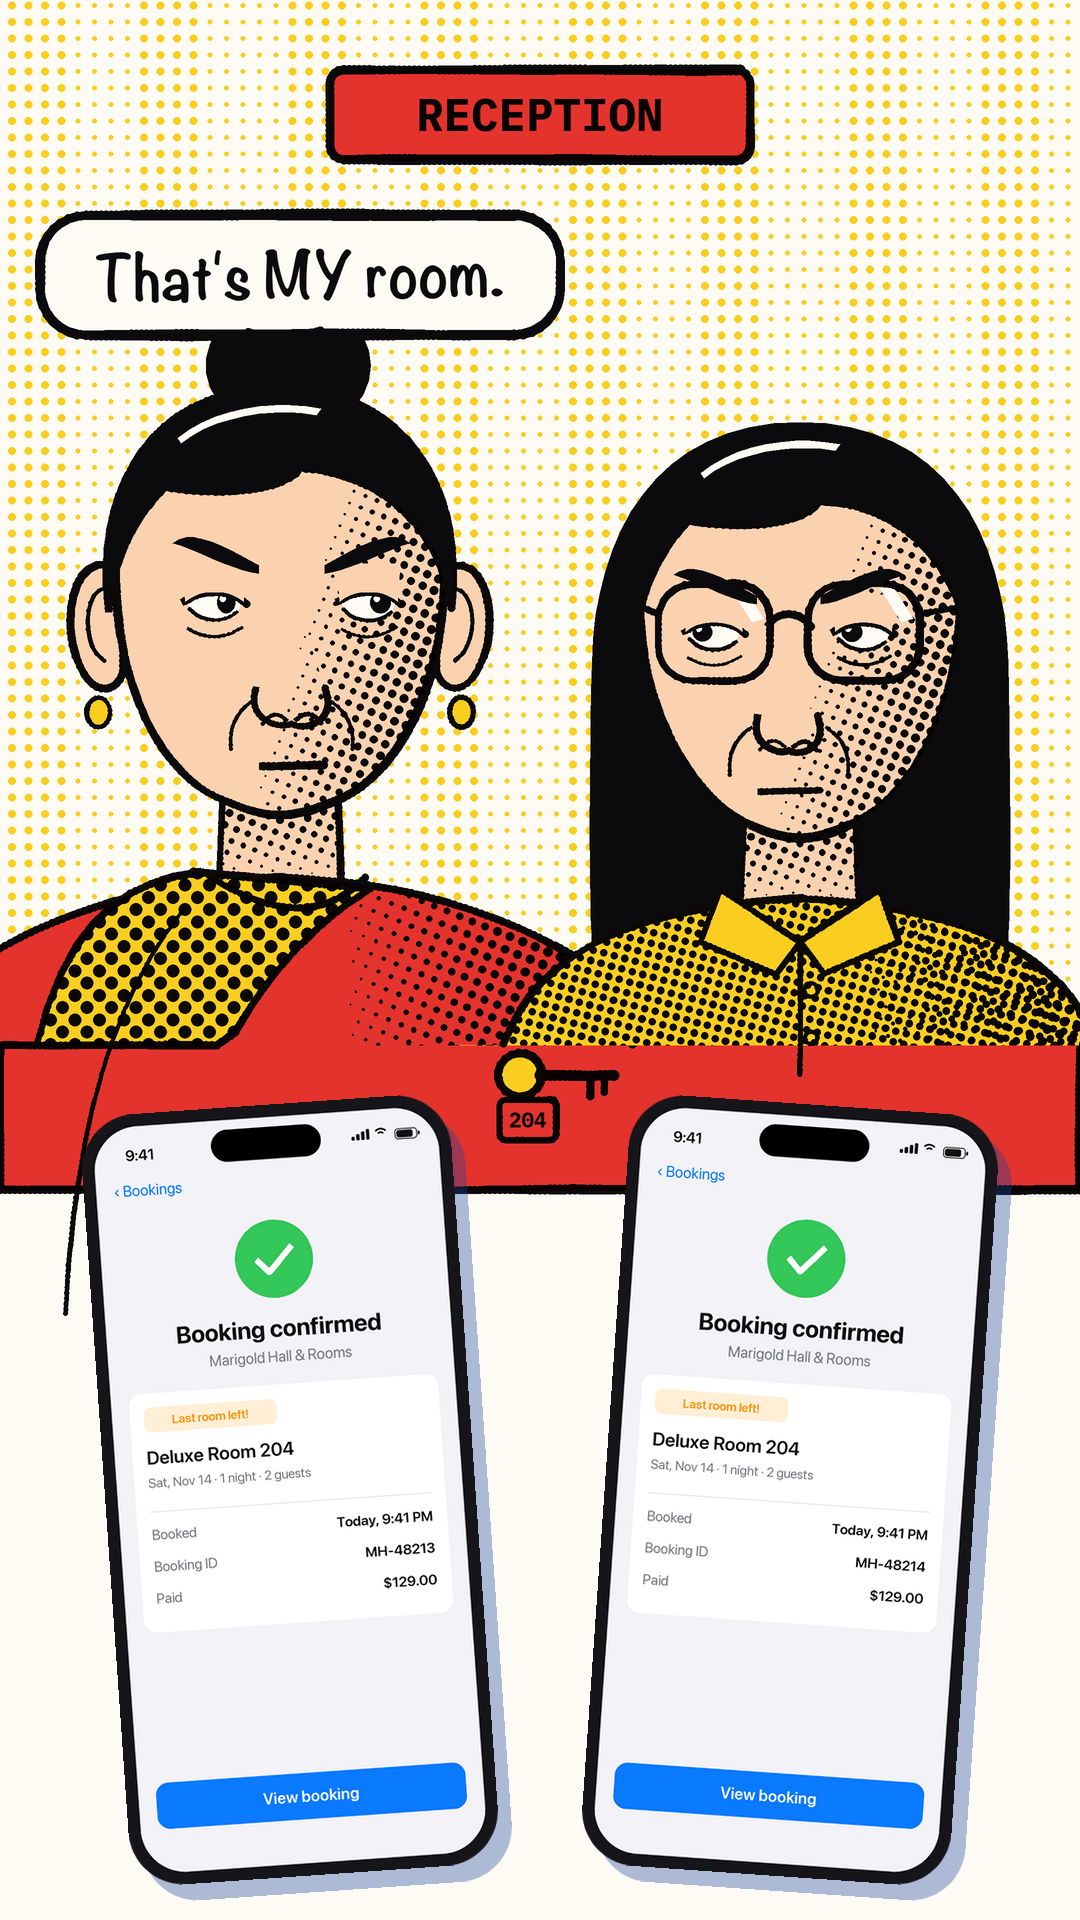
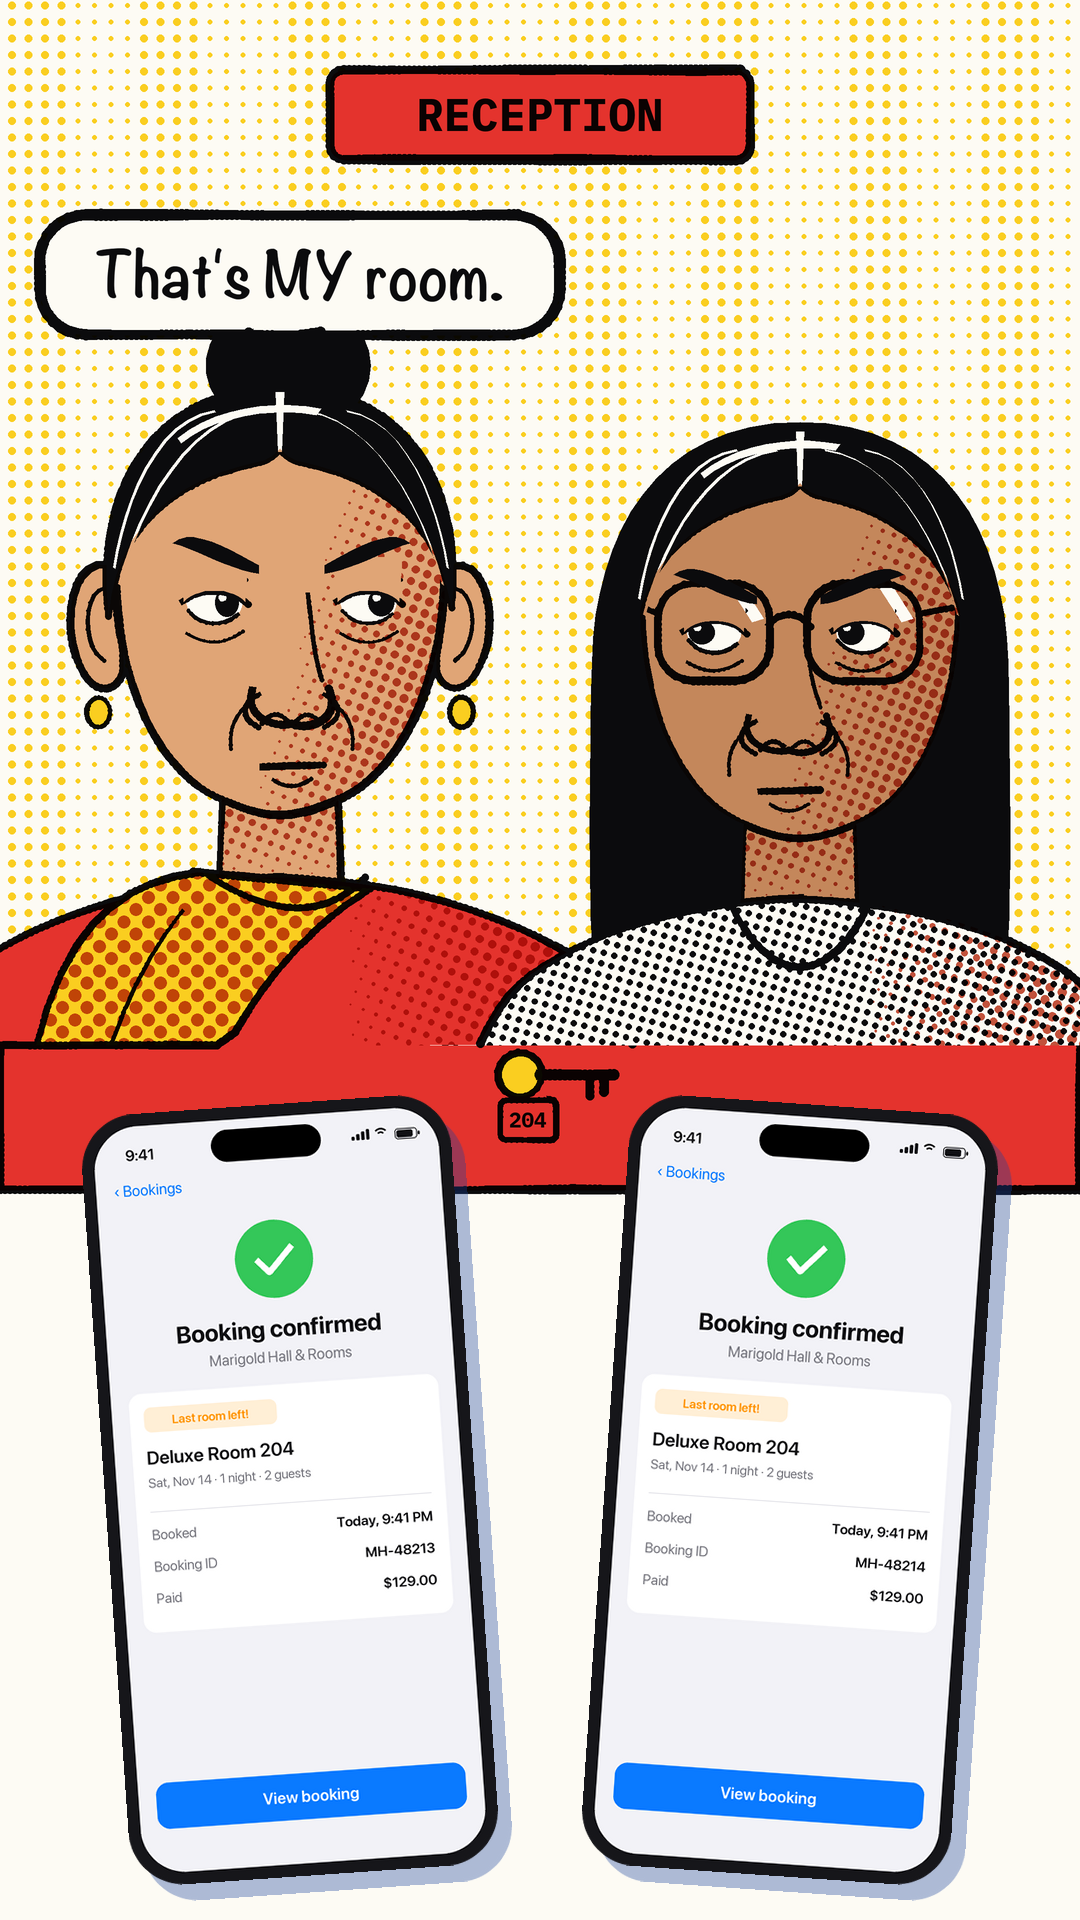
Redraw the family's faces (eyes with creases, nose bridge, warmer skin, middle parting); add Aunt2; comic look picked

diff --git a/kit/riso_cast.py b/kit/riso_cast.py
@@ -31,19 +31,25 @@ class Person:
     hair_grey: float = 0.0    # 0 dark .. 1 white
     garment: str = "tee"      # cardigan | scarf_top | blouse | polo | tee
     shoulders: float = 2.1    # half-width of the shoulders, in head units
+    skin: str = "skin"        # skin | skin2 (deeper)
+    lashes: bool = False
+    parting: bool = False     # a middle parting (symmetric hairline)
 
 
 GRANDPA = Person("Grandpa", "bald_tufts", jaw=1.0, nose=1.25, glasses=True, moustache=True, age=1.0, hair_grey=1.0,
-                 garment="cardigan")
-AUNT = Person("Aunt", "bun", jaw=0.9, crown=1.2, nose=0.95, earrings=True, age=0.45, hair_grey=0.15,
-              garment="scarf_top", shoulders=2.2)
-MOM = Person("Mom", "long", jaw=0.84, crown=1.18, nose=0.85, earrings=True, age=0.3, garment="blouse",
-             shoulders=1.95)
-DAD = Person("Dad", "short", jaw=1.02, crown=1.2, nose=1.05, stubble=True, age=0.35, hair_grey=0.35, garment="polo",
-             shoulders=2.3)
-PRIYA = Person("Priya", "ponytail", jaw=0.8, crown=1.16, nose=0.8, earrings=True, garment="tee", shoulders=1.85)
+                 garment="cardigan", skin="skin2")
+AUNT = Person("Aunt", "bun", jaw=0.9, crown=1.2, nose=1.05, earrings=True, age=0.45, hair_grey=0.15,
+              garment="scarf_top", shoulders=2.2, lashes=True, parting=True)
+AUNT2 = Person("Aunt2", "long", jaw=0.92, crown=1.18, nose=1.1, glasses=True, earrings=True, age=0.5,
+               garment="blouse", shoulders=2.1, skin="skin2", lashes=True, parting=True)
+MOM = Person("Mom", "long", jaw=0.84, crown=1.18, nose=0.95, earrings=True, age=0.3, garment="blouse",
+             shoulders=1.95, lashes=True, parting=True)
+DAD = Person("Dad", "short", jaw=1.02, crown=1.2, nose=1.15, moustache=True, age=0.35, hair_grey=0.35, garment="polo",
+             shoulders=2.3, skin="skin2")
+PRIYA = Person("Priya", "ponytail", jaw=0.8, crown=1.16, nose=0.9, earrings=True, garment="tee", shoulders=1.85,
+               lashes=True)
 
-FAMILY = {p.name.upper(): p for p in (GRANDPA, AUNT, MOM, DAD, PRIYA)}
+FAMILY = {p.name.upper(): p for p in (GRANDPA, AUNT, AUNT2, MOM, DAD, PRIYA)}
 
 # Expression: brow lift per side (head units, negative = up), brow tilt (inner end up = worried), upper lid
 # (0 wide .. 1 shut), smile (curve of a closed mouth), and the mouth shape when not talking.
@@ -127,7 +133,7 @@ def head(sk: Sketch, p: Person, cx, cy, R, expr="neutral", mouth=0.0, gaze=(0.0,
                 continue
             ear = f.pts(path((side * 0.98, -0.19), ((side * 1.28, -0.33), (side * 1.33, 0.19), (side * 1.21, 0.4)),
                              ((side * 1.12, 0.6), (side * 0.98, 0.55), (side * 0.95, 0.43)), n=12), feature=False)
-            sk.shape(ear + [f(side * 0.95, -0.15, False)], "skin", lw)
+            sk.shape(ear + [f(side * 0.95, -0.15, False)], p.skin, lw)
             sk.stroke(f.pts(bez((side * 1.06, -0.07), (side * 1.2, -0.05), (side * 1.19, 0.28), (side * 1.08, 0.35),
                                 10), False), width=lw * 0.6)
             if p.earrings:
@@ -138,7 +144,7 @@ def head(sk: Sketch, p: Person, cx, cy, R, expr="neutral", mouth=0.0, gaze=(0.0,
 
     # -- Face
     sk.occlude(outline)
-    sk.solid(outline, "skin")
+    sk.solid(outline, p.skin)
     sk.halftone(outline, "accent", cell=max(7, R * 0.05), shade=shade)
     sk.stroke(outline + [outline[0]], width=lw * 1.15)
     if p.stubble:
@@ -148,7 +154,7 @@ def head(sk: Sketch, p: Person, cx, cy, R, expr="neutral", mouth=0.0, gaze=(0.0,
         sk.halftone(jaw, "line", cell=max(6, R * 0.04), angle=45, shade=lambda x, y: 0.16)
     if p.hair == "bald_tufts":
         sk.erase([(x + (y - cy) * 0.6, y) for x, y in ellipse_pts(*f(-0.4, -0.95, False), R * 0.25, R * 0.1, 18)],
-                 ["skin", "accent"])
+                 [p.skin, "accent"])
     # Wrinkles
     if p.age > 0.6:
         for k, v in enumerate((-0.76, -0.63, -0.5)):
@@ -163,7 +169,7 @@ def head(sk: Sketch, p: Person, cx, cy, R, expr="neutral", mouth=0.0, gaze=(0.0,
     lid = 1.0 if blink else e["lid"]
     for side in (-1, 1):
         ex, ey = f(side * 0.467, 0.01)
-        rx, ry = R * 0.16, R * 0.115
+        rx, ry = R * 0.17, R * 0.135
         if lid >= 0.95:
             if e["mouth"] == "grin" or expr == "beaming":  # happy closed eyes: arcs up
                 sk.stroke(ellipse_pts(ex, ey + ry * 0.4, rx * 0.95, ry * 1.1, 14, math.pi * 1.1, math.pi * 1.9),
@@ -176,8 +182,11 @@ def head(sk: Sketch, p: Person, cx, cy, R, expr="neutral", mouth=0.0, gaze=(0.0,
         sk.occlude(white)
         px = ex + gaze[0] * rx * 0.45
         py = ey + gaze[1] * ry * 0.4
-        sk.dot(px, py, R * 0.062)
-        sk.erase(ellipse_pts(px - R * 0.022, py - R * 0.022, R * 0.02, R * 0.02, 10), ["line"])
+        sk.dot(px, py, R * 0.08)
+        sk.erase(ellipse_pts(px - R * 0.028, py - R * 0.03, R * 0.024, R * 0.024, 10), ["line"])
+        if lid < 0.8:  # the eyelid crease
+            sk.stroke(bez((ex - rx * 0.55, ey - ry * 1.35), (ex - rx * 0.1, ey - ry * 1.85), (ex + rx * 0.6, ey - ry * 1.8),
+                          (ex + rx * 1.05, ey - ry * 1.1), 12), width=lw * 0.5)
         top = ey - ry * (1.25 - lid * 1.4)
         sk.stroke([(ex - rx * 1.1, ey - ry * 0.05)] + bez((ex - rx * 1.1, ey), (ex - rx * 0.6, top), (ex + rx * 0.6, top),
                                                           (ex + rx * 1.1, ey), 14)[1:], width=lw * 1.0)
@@ -185,8 +194,9 @@ def head(sk: Sketch, p: Person, cx, cy, R, expr="neutral", mouth=0.0, gaze=(0.0,
             cover = bez((ex - rx * 1.1, ey), (ex - rx * 0.6, top), (ex + rx * 0.6, top), (ex + rx * 1.1, ey), 14)
             cover = cover + [(ex + rx * 1.2, ey - ry * 2), (ex - rx * 1.2, ey - ry * 2)]
             sk.occlude(cover)
-            sk.solid(cover, "skin", offset=False)
+            sk.solid(cover, p.skin, offset=False)
         sk.stroke(white[3:12], width=lw * 0.55)  # lower lid
+
         if p.age > 0.4:
             sk.stroke(bez((ex - rx * 0.9, ey + ry * 1.5), (ex - rx * 0.3, ey + ry * 1.95), (ex + rx * 0.3, ey + ry * 1.95),
                           (ex + rx * 0.9, ey + ry * 1.45), 10), width=lw * 0.45)
@@ -216,7 +226,7 @@ def head(sk: Sketch, p: Person, cx, cy, R, expr="neutral", mouth=0.0, gaze=(0.0,
             sk.stroke(lens + [lens[0]], width=lw * 1.05)
             glare = [(ex + R * 0.1, ey - R * 0.27), (ex + R * 0.19, ey - R * 0.27), (ex + R * 0.31, ey - R * 0.08),
                      (ex + R * 0.24, ey - R * 0.06)]
-            sk.erase(glare, ["skin", "accent"])
+            sk.erase(glare, [p.skin, "accent"])
             sk.stroke([f(side * 0.82, -0.1), f(side * 0.98, -0.14, False)], width=lw * 0.9)
         sk.stroke(f.pts(bez((-0.12, -0.04), (-0.06, -0.12), (0.06, -0.12), (0.12, -0.04), 8)), width=lw)
 
@@ -226,16 +236,19 @@ def head(sk: Sketch, p: Person, cx, cy, R, expr="neutral", mouth=0.0, gaze=(0.0,
                       ((-0.28 * n, 0.72), (-0.08 * n, 0.78), (0, 0.75)),
                       ((0.1 * n, 0.8), (0.28 * n, 0.72), (0.22 * n, 0.56)), n=14))
     sk.occlude(nose + [f(0.06 * n, 0.1)])
-    sk.solid(nose + [f(0.06 * n, 0.1)], "skin", offset=False)
+    sk.solid(nose + [f(0.06 * n, 0.1)], p.skin, offset=False)
     sk.halftone(nose + [f(0.06 * n, 0.1)], "accent", cell=max(7, R * 0.05), shade=shade)
     if p.name == "Grandpa":
         tip = f(0.02, 0.63)
         sk.halftone(ellipse_pts(*tip, R * 0.19, R * 0.12, 18), "accent", cell=max(6, R * 0.04), angle=45,
                     shade=lambda x, y: 0.55)
     sk.stroke(nose[14:], width=lw * 1.0)
+    sk.stroke(f.pts(bez((0.1, -0.02), (0.12, 0.15), (0.13, 0.3), (0.17 * n, 0.46), 8)), width=lw * 0.55)  # bridge
     for side in (-1, 1):
         sk.stroke(f.pts(bez((side * 0.04, 0.72), (side * 0.08, 0.68), (side * 0.13, 0.69), (side * 0.16, 0.73), 6)),
                   width=lw * 0.6)
+        sk.stroke(f.pts(bez((side * 0.2 * n, 0.58), (side * 0.29 * n, 0.62), (side * 0.29 * n, 0.72),
+                            (side * 0.21 * n, 0.76), 8)), width=lw * 0.7)  # nostril wing
 
     # -- Mouth, and blush when happy
     _mouth(sk, f, e, mouth, R, lw, p)
@@ -291,6 +304,10 @@ def _front_hair(sk: Sketch, f: Frame, p: Person, lw, R):
                         ((-0.3, -0.8), (-0.8, -0.66), (-1.0, -0.3)), n=14)
         cap = path((-1.02, -0.2), ((-1.1, -0.9), (-0.7, -T - 0.14), (0, -T - 0.12)),
                    ((0.7, -T - 0.14), (1.1, -0.9), (1.02, -0.2)), n=18)
+    elif p.parting:  # middle parting: the hairline rises to a point at the centre and sweeps down both sides
+        half = path((1.04, 0.1), ((1.0, -0.45), (0.62, -0.74), (0.12, -0.84)), ((0.05, -0.86), (0.02, -0.9), (0, -0.92)),
+                    n=12)
+        hairline = half + mirror(half, 0)[::-1][1:]
     else:
         hairline = path((1.04, 0.05), ((0.98, -0.45), (0.6, -0.78), (0.12, -0.8)),
                         ((0.05, -0.66), (-0.35, -0.62), (-0.7, -0.68)),
@@ -298,6 +315,14 @@ def _front_hair(sk: Sketch, f: Frame, p: Person, lw, R):
     shape = f.pts(cap + hairline[1:], feature=False)
     _hair_fill(sk, shape, p, lw)
     sk.stroke(shape + [shape[0]], width=lw)
+    if p.parting and p.hair_grey < 0.9:  # the parting line, and a few strands
+        sk.erase(f.pts([(-0.025, -T - 0.06), (0.025, -T - 0.06), (0.012, -0.9), (-0.012, -0.9)], False), ["line"])
+        for side in (-1, 1):
+            for k in range(2):
+                strand = f.pts(bez((side * (0.15 + 0.25 * k), -T + 0.05), (side * (0.55 + 0.2 * k), -T + 0.1),
+                                   (side * (0.85 + 0.1 * k), -0.6), (side * (0.98 + 0.03 * k), -0.1 - 0.1 * k), 12), False)
+                th = R * 0.012
+                sk.erase(strand + [(x + th, y + th) for x, y in strand[::-1]], ["line"])
     # Sheen: a pale curved stripe across the dark hair
     if p.hair_grey < 0.9:
         sheen = f.pts(path((-0.62, -0.98), ((-0.4, -1.16), (-0.05, -1.22), (0.25, -1.16)), n=10) +
@@ -339,6 +364,9 @@ def _mouth(sk: Sketch, f: Frame, e, m, R, lw, p: Person):
         sk.stroke(pts, width=lw)
     elif shape == "flat":
         sk.stroke([(mx - R * 0.17, my + R * 0.04), (mx + R * 0.17, my + R * 0.03)], width=lw)
+        if p.lashes:  # lower lip
+            sk.stroke(bez((mx - R * 0.1, my + R * 0.13), (mx - R * 0.04, my + R * 0.17), (mx + R * 0.04, my + R * 0.17),
+                          (mx + R * 0.1, my + R * 0.13), 8), width=lw * 0.55)
     else:  # closed smile
         s = e["smile"]
         sk.stroke(bez((mx - R * 0.2, my), (mx - R * 0.08, my + R * 0.1 * s), (mx + R * 0.08, my + R * 0.1 * s),
@@ -354,7 +382,7 @@ def torso(sk: Sketch, p: Person, cx, cy, R, bottom=1940.0, turn=0.0):
     f = Frame(cx, cy, R, 0)
     sw = p.shoulders
     neck = f.pts([(-0.34, 0.95), (0.34, 0.95), (0.37, 1.72), (-0.37, 1.72)])
-    sk.shape(neck, "skin", R * 0.024)
+    sk.shape(neck, p.skin, R * 0.024)
     sk.halftone(neck, "accent", cell=max(7, R * 0.05), shade=lambda x, y: 0.45 - (y - f(0, 0.95)[1]) / (R * 1.6))
     left = path((0, 1.68), ((-0.6, 1.7), (-1.2, 1.82), (-sw * 0.8, 2.15)),
                 ((-sw * 1.02, 2.5), (-sw * 1.06, 3.4), (-sw * 1.1, 4.5)), n=18)
@@ -395,7 +423,8 @@ def torso(sk: Sketch, p: Person, cx, cy, R, bottom=1940.0, turn=0.0):
         scarf = [(x, min(y, bottom)) for x, y in scarf]
         sk.shape(scarf, "fill2", lw)
         sk.halftone(scarf, "accent", cell=max(9, R * 0.07), angle=45, shade=lambda x, y: 0.35)
-        sk.stroke(f.pts(bez((-0.6, 1.9), (-1.0, 2.4), (-1.25, 3.2), (-1.3, 4.3), 12), False), width=lw * 0.6)
+        sk.stroke([(x, y) for x, y in f.pts(bez((-0.6, 1.9), (-1.0, 2.4), (-1.25, 3.2), (-1.3, 4.3), 12), False)
+                   if y <= bottom], width=lw * 0.6)
         sk.stroke(f.pts(bez((-0.42, 1.68), (0, 1.95), (0.3, 1.9), (0.5, 1.7), 10), False), width=lw)
     elif g == "blouse":
         sk.stroke(f.pts(bez((-0.45, 1.68), (-0.2, 2.25), (0.2, 2.25), (0.45, 1.68), 12), False), width=lw)
@@ -434,7 +463,7 @@ def sleeve(sk: Sketch, pts, thick, ink="fill2", line_w=4.5):
     return band
 
 
-def hand(sk: Sketch, x, y, s, kind="fist", angle=0.0, line_w=4.0):
+def hand(sk: Sketch, x, y, s, kind="fist", angle=0.0, line_w=4.0, skin="skin"):
     """A simple hand at (x, y), size s (about a palm width): fist | open | phone."""
     rot = lambda pts: [(x + (u * math.cos(angle) - v * math.sin(angle)) * s,
                         y + (u * math.sin(angle) + v * math.cos(angle)) * s) for u, v in pts]
@@ -447,7 +476,7 @@ def hand(sk: Sketch, x, y, s, kind="fist", angle=0.0, line_w=4.0):
         palm = rot(path((-0.5, 0.45), ((-0.65, 0.0), (-0.55, -0.55), (-0.1, -0.6)), ((0.35, -0.65), (0.6, -0.4), (0.55, 0.0)),
                         ((0.55, 0.4), (0.3, 0.55), (-0.5, 0.45)), n=10))
     sk.occlude(palm)
-    sk.solid(palm, "skin", offset=False)
+    sk.solid(palm, skin, offset=False)
     sk.halftone(palm, "accent", cell=8, shade=lambda a, b: 0.25)
     sk.stroke(palm + [palm[0]], width=line_w)
     if kind == "fist":

diff --git a/kit/riso.py b/kit/riso.py
@@ -26,11 +26,12 @@ INKS = {
     "accent": (255, 72, 140),   # fluorescent pink: shading dots, accents
     "fill": (255, 96, 160),     # pink fill
     "fill2": (255, 214, 40),    # yellow fill
-    "skin": (255, 190, 150),    # skin tint
+    "skin": (240, 172, 128),    # skin, medium
+    "skin2": (214, 144, 100),   # skin, deeper
     "label": (24, 66, 156),
     "good": (24, 66, 156),
 }
-PRINT_ORDER = ["skin", "fill2", "fill", "accent", "line", "label", "good"]
+PRINT_ORDER = ["skin", "skin2", "fill2", "fill", "accent", "line", "label", "good"]
 
 # Looks the same drawing code can print in (2026-10-05 style comparison). "riso" is the default.
 LOOKS = {
@@ -38,11 +39,11 @@ LOOKS = {
     # Clean ink line and flat colour with two-tone (cel) shading, like a newspaper or New Yorker cartoon.
     "clean": dict(paper=(251, 249, 245), grain=False, offset=(0, 0), wobble=0.12, width=0.75, shading="cel",
                   inks={"line": (34, 30, 32), "accent": (196, 96, 84), "fill": (226, 112, 96), "fill2": (240, 192, 88),
-                        "skin": (244, 198, 166), "label": (34, 30, 32), "good": (34, 30, 32)}),
+                        "skin": (222, 166, 124), "skin2": (192, 132, 92), "label": (34, 30, 32), "good": (34, 30, 32)}),
     # Bold comic: heavy black ink, Ben-Day dots for shading, bright primaries.
     "comic": dict(paper=(253, 251, 244), grain=False, offset=(0, 0), wobble=0.35, width=1.7, shading="dots",
-                  dot_scale=1.5, inks={"line": (12, 12, 14), "accent": (12, 12, 14), "fill": (230, 52, 48),
-                                       "fill2": (252, 210, 34), "skin": (252, 214, 184), "label": (12, 12, 14),
+                  dot_scale=1.5, inks={"line": (12, 12, 14), "accent": (196, 84, 62), "fill": (230, 52, 48),
+                                       "fill2": (252, 210, 34), "skin": (226, 168, 124), "skin2": (198, 138, 96), "label": (12, 12, 14),
                                        "good": (12, 12, 14)}),
 }
 LOOK = dict(LOOKS["riso"])
@@ -362,7 +363,7 @@ def composite(sk: Sketch, seed: int = 11) -> Image.Image:
         a = np.asarray(sk.layers[ink], np.float32) / 255
         if LOOK["grain"]:
             grain = rng.random(a.shape, dtype=np.float32)
-            a = a * np.clip(0.78 + grain * 0.3, 0, 1) * (0.9 if ink in ("fill", "fill2", "skin") else 1)
+            a = a * np.clip(0.78 + grain * 0.3, 0, 1) * (0.9 if ink in ("fill", "fill2", "skin", "skin2") else 1)
         color = np.array(LOOK["inks"][ink], np.float32) / 255
         out = out * (1 - a[..., None] * (1 - color))
     img = Image.fromarray(np.clip(out, 0, 255).astype(np.uint8))

diff --git a/episodes/001-wait-you-didnt-know/format_test.py b/episodes/001-wait-you-didnt-know/format_test.py
@@ -19,12 +19,11 @@ from PIL import Image, ImageDraw, ImageFont  # noqa: E402
 
 from kit import riso  # noqa: E402
 from kit.riso import Sketch, bubble, composite, ellipse_pts, path, round_rect_pts  # noqa: E402
-from kit.riso_cast import AUNT, EXPRESSIONS, MOM, person  # noqa: E402
+from kit.riso_cast import AUNT, AUNT2, EXPRESSIONS, person  # noqa: E402
 
 OUT = Path(__file__).parent / "deliverables"
 
 EXPRESSIONS.setdefault("glare", dict(brow=(0.06, 0.06), tilt=-0.09, lid=0.42, mouth="flat", smile=0.0))
-AUNT2 = replace(MOM, name="Aunt2", glasses=True, garment="polo", age=0.5)
 
 
 def confirmation(booking_id: str):
